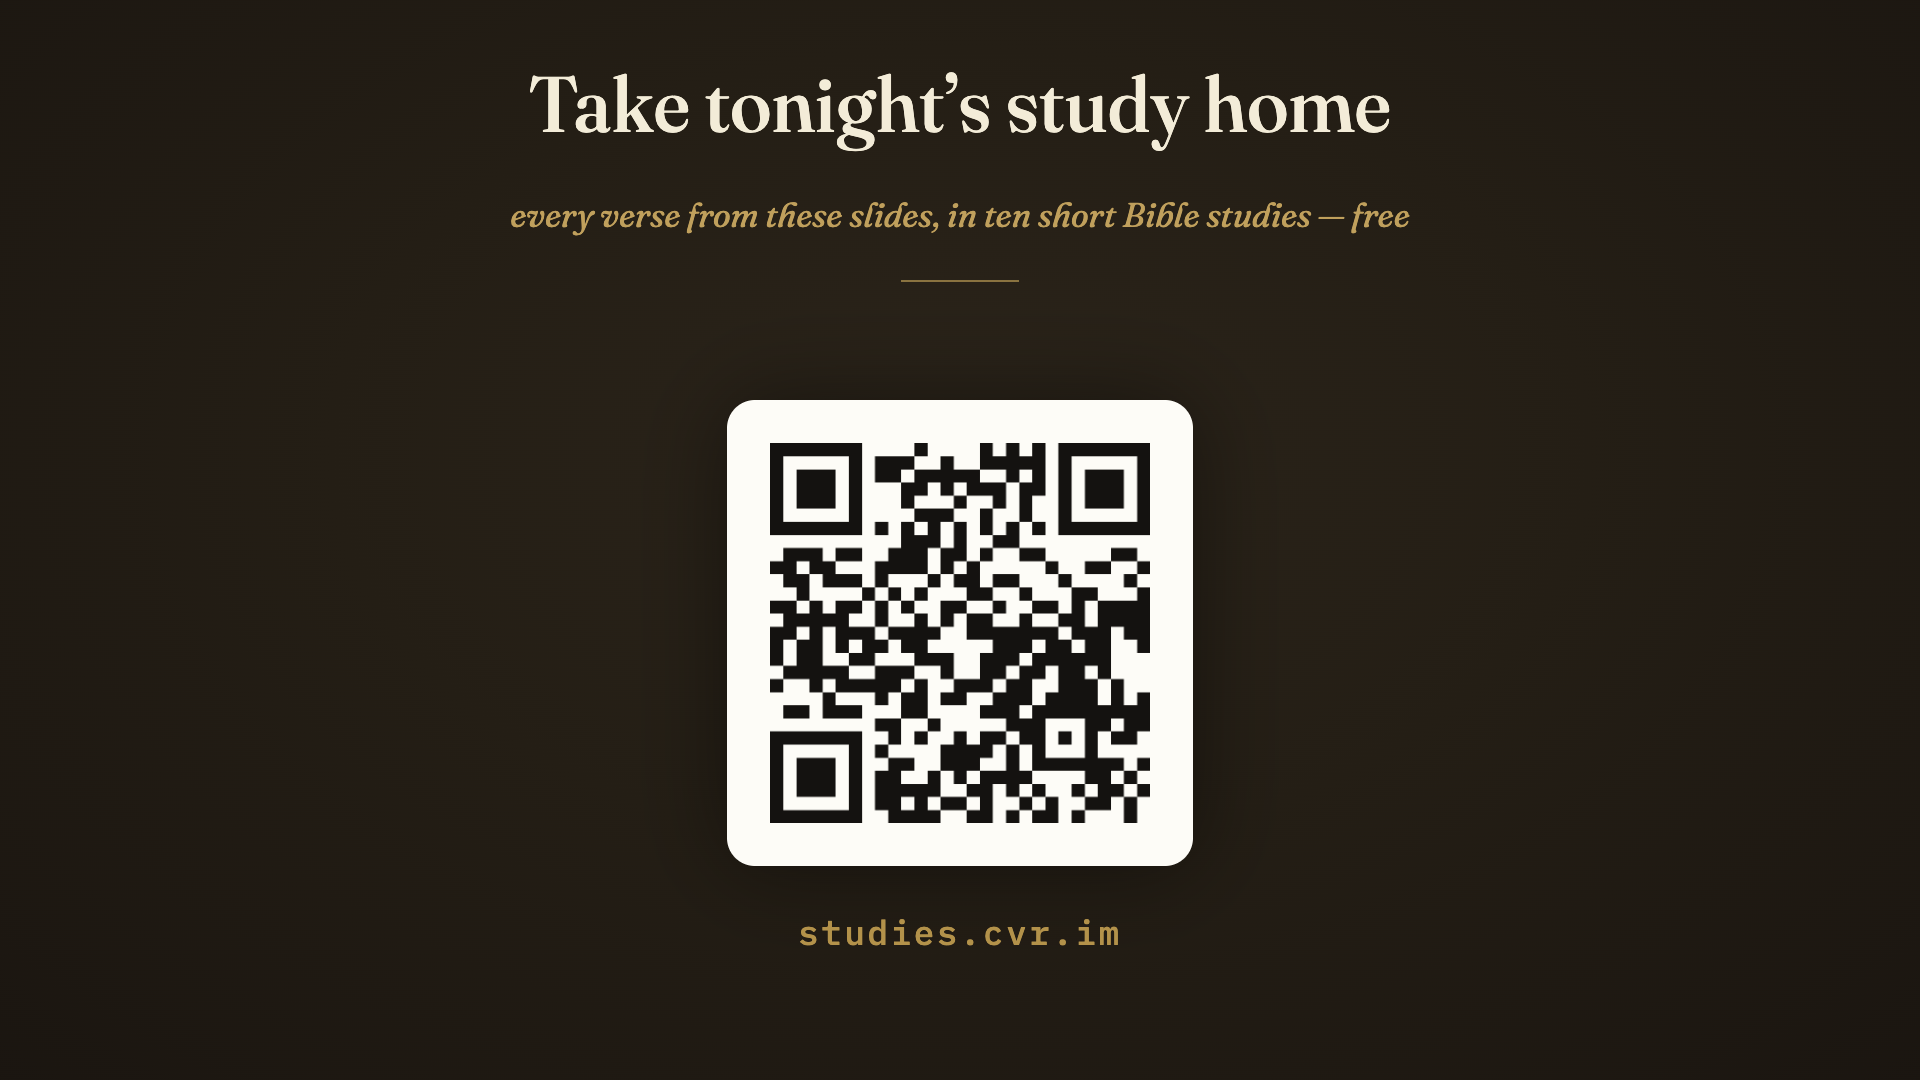
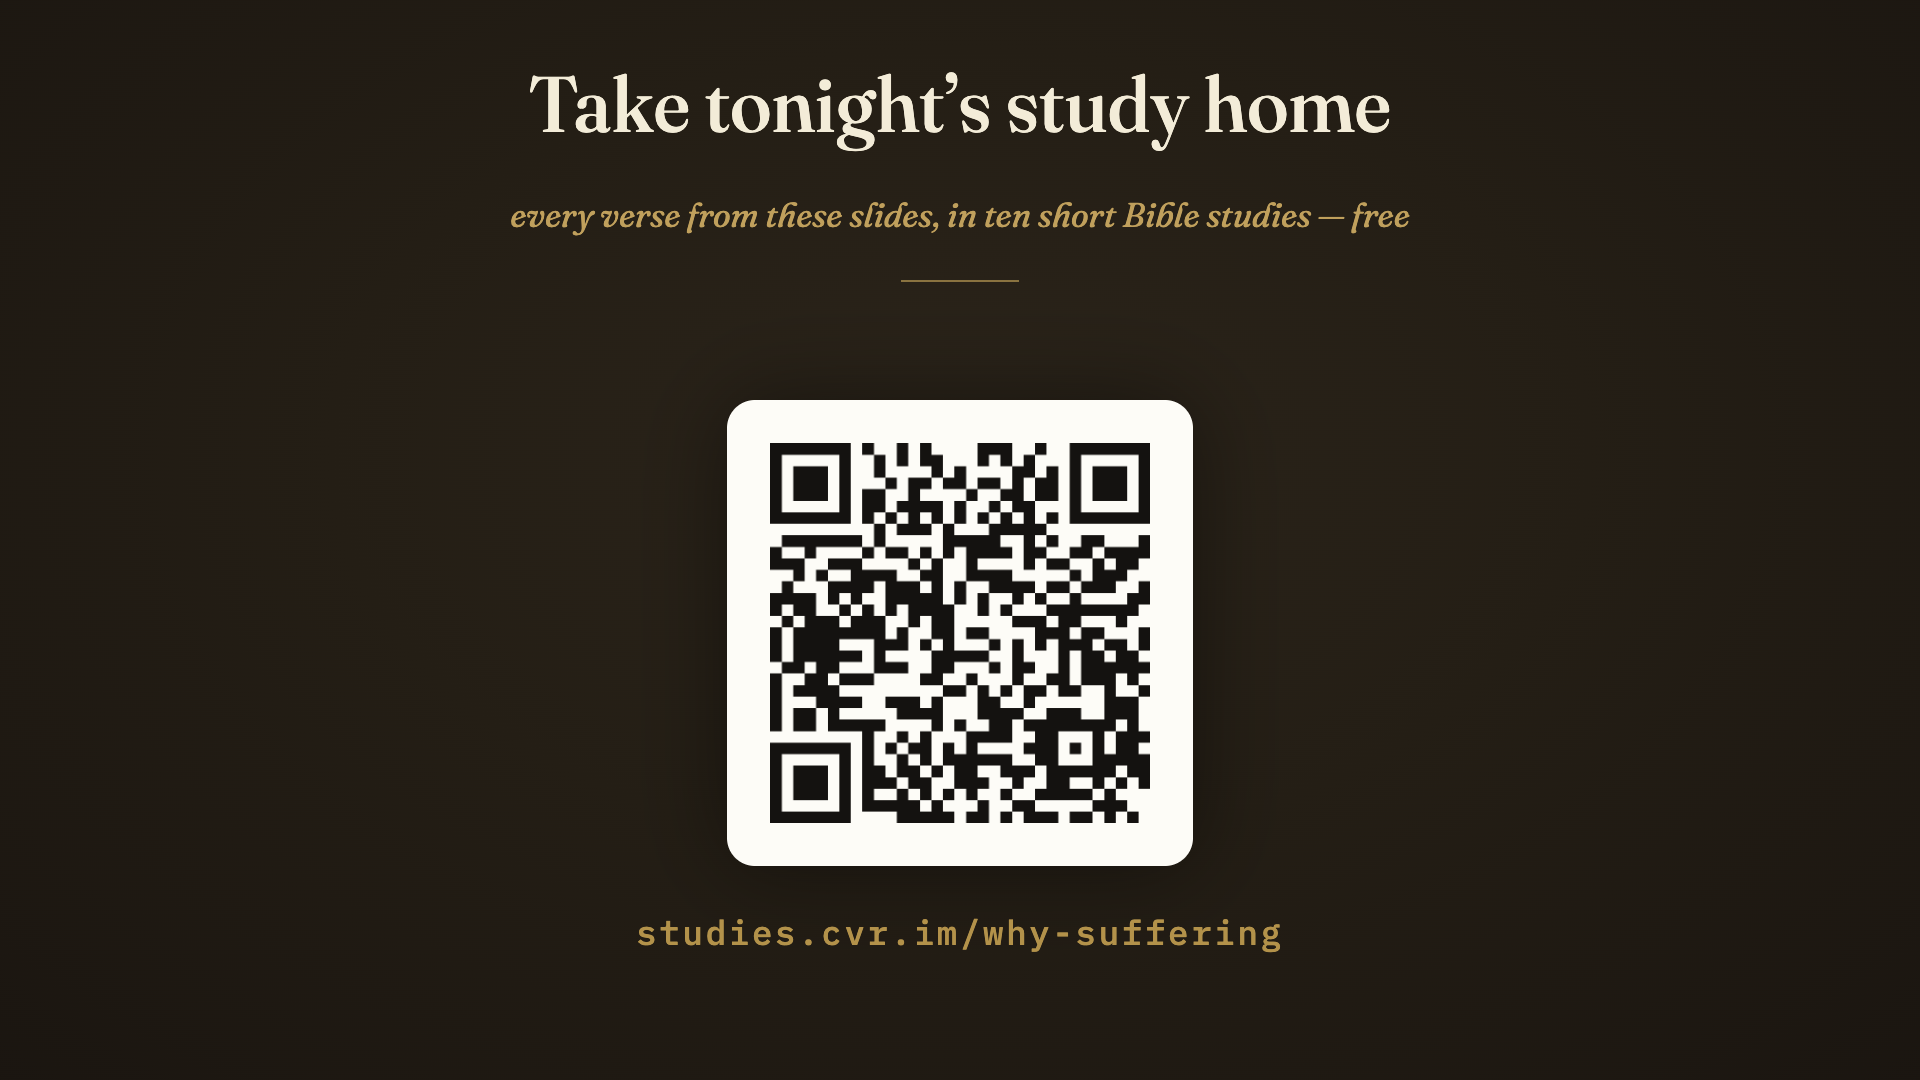
feat(deck): Night 3 QR now deep-links to studies.cvr.im/why-suffering

Changed region(s): [[0.375, 0.3972, 0.625, 0.7639], [0.3125, 0.8556, 0.6875, 0.8861]]

diff --git a/packages/cli/outputs/decks/what-is-truth/NIGHT3-REHEARSAL.md b/packages/cli/outputs/decks/what-is-truth/NIGHT3-REHEARSAL.md
@@ -18,7 +18,7 @@ _Say:_ Part III. Two nights of evidence that the Book is reliable and above huma
 
 _Image:_ Dark gold-on-black QR slide: 'Take tonight's study home' with a scannable code in a white card and the study URL beneath.
 
-_Say:_ QR — take tonight's study home. While people settle: every verse you'll see tonight is in a free written study series — scan now or at the end, it stays on the title screen area. Ten short Bible studies; the site also has the other handbooks (Daniel & Revelation, the Chain of Truth, and more). URL: studies.cvr.im
+_Say:_ QR — take tonight's study home. While people settle: every verse you'll see tonight is in a free written study series — scan now or at the end, it stays on the title screen area. Ten short Bible studies; the site also has the other handbooks (Daniel & Revelation, the Chain of Truth, and more). URL: studies.cvr.im/why-suffering
 
 **3 — Name the ache of pain honestly**
 
